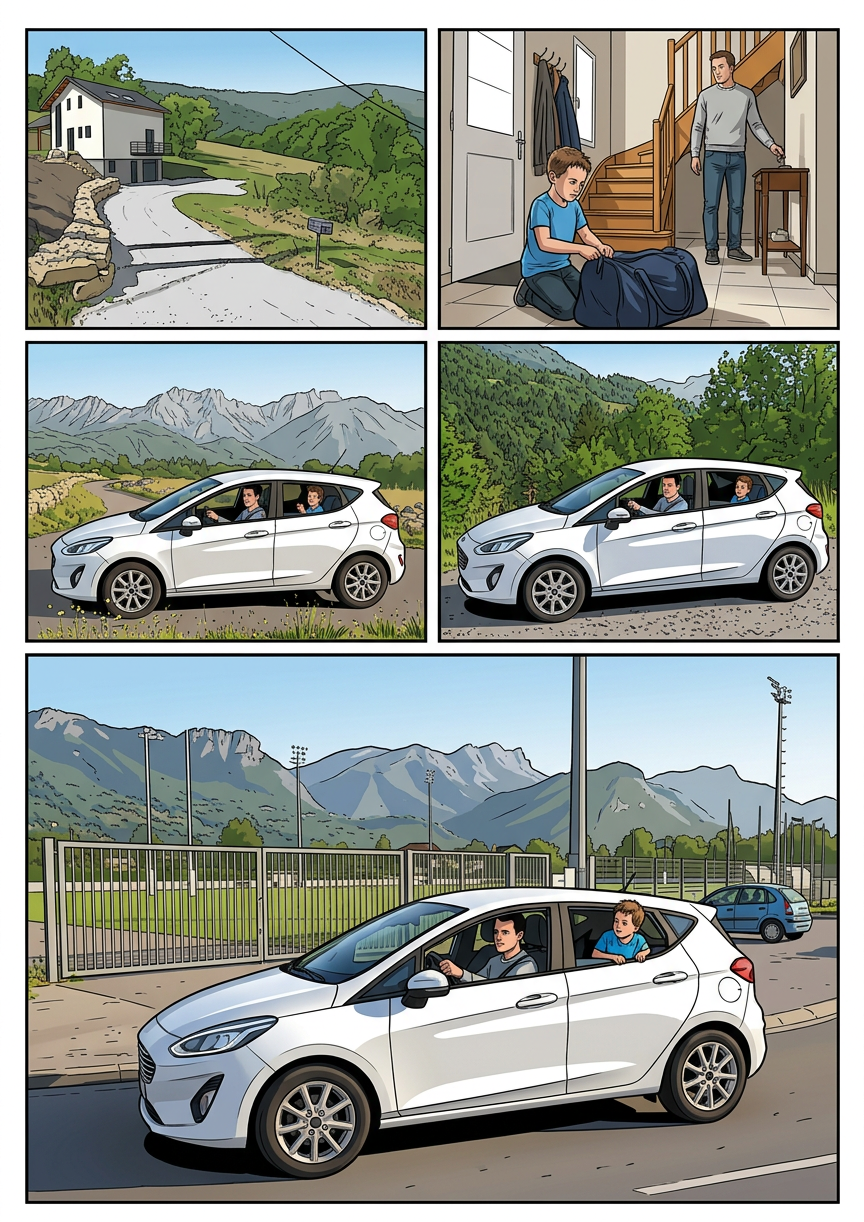
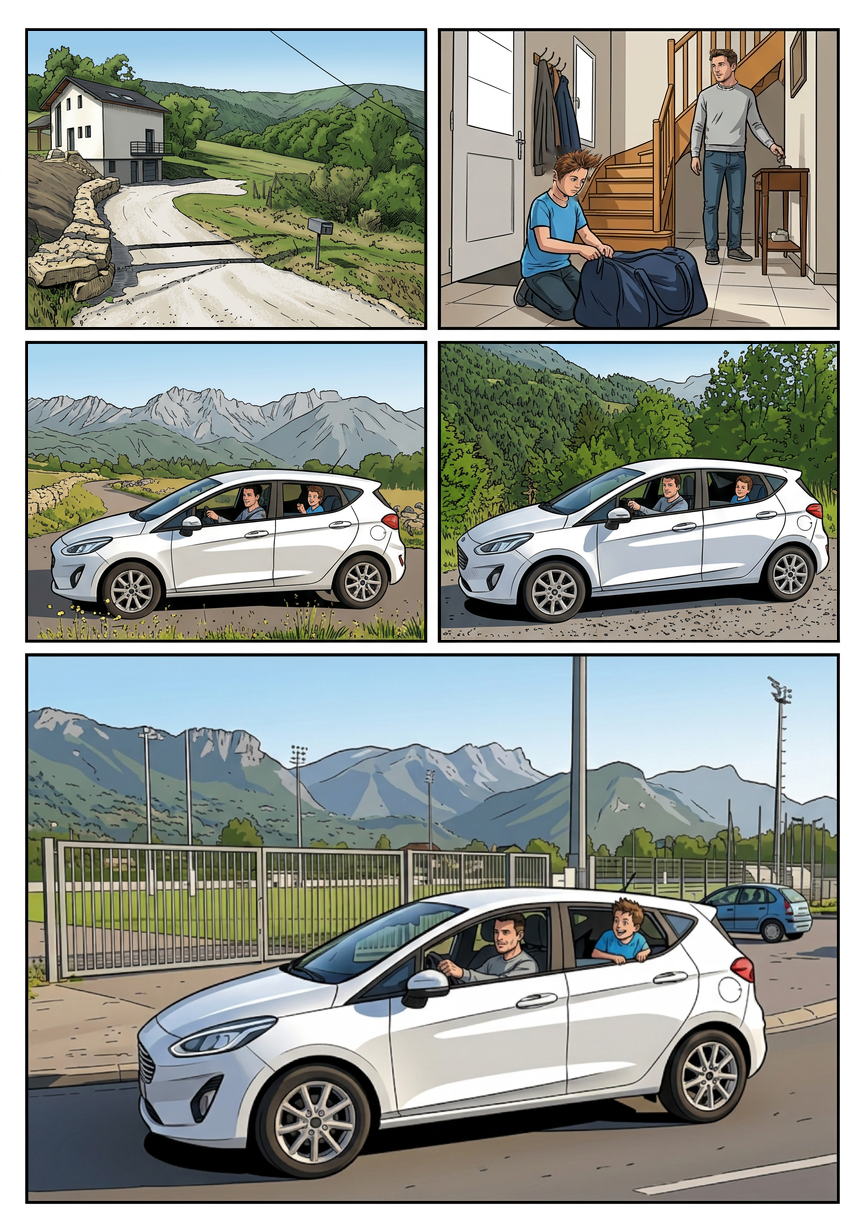
Revoir les cinq vignettes de la planche 2 sur la référence couverture

diff --git a/Planches-dessin/validation/REVUE-COUVERTURE.md b/Planches-dessin/validation/REVUE-COUVERTURE.md
@@ -21,12 +21,12 @@ Les huit recadrages exacts sont dans `revue-couverture/<Prénom>-couverture.png`
 |---|---:|
 | Planches vues en ensemble | 30 |
 | Vignettes réellement inventoriées | 153 |
-| Premières reprises intégrées, encore à relire | 8 |
+| Premières reprises intégrées, encore à relire | 13 |
 | Corrections seulement partielles, à poursuivre | 2 |
-| Autres vignettes restant à contrôler individuellement | 143 |
+| Autres vignettes restant à contrôler individuellement | 138 |
 | Validations définitives de style et ressemblance | **0** |
 
-Les 10 interventions ne signifient donc pas 10 vignettes définitivement conformes. Le reste de la revue demandée n’est pas terminé. Le manifeste `REVUE-COUVERTURE.json` conserve une entrée et un état explicite pour chacune des 153 vignettes.
+Les 15 interventions ne signifient donc pas 15 vignettes définitivement conformes. Le reste de la revue demandée n’est pas terminé. Le manifeste `REVUE-COUVERTURE.json` conserve une entrée et un état explicite pour chacune des 153 vignettes.
 
 ## Première livraison : 26/3 et 26/6
 
@@ -52,6 +52,22 @@ Preuve : `revue-couverture/PREMIERES-CORRECTIONS-26.jpg`. Livraison précédente
 
 Les candidats redessinés ont été relus, puis les montages intégrés ont été examinés en comparatif et en contexte de page. Ce contrôle de première passe n’équivaut pas à une validation définitive de tous les raccords, tenues, proportions et expressions.
 
+## Troisième livraison : les cinq vignettes de la planche 2
+
+Les cinq cases ont été examinées avec leur scénario et leurs recadrages réalistes. La couverture reste l’autorité de dessin et de ressemblance ; les vêtements **civils** de cette scène sont conservés, pas remplacés par les tenues de rugby de la couverture.
+
+- **02/1, sans personnage :** reprise du modelé/encrage de la maison, de la route, du mur et de la végétation, en conservant la composition du paysage savoyard.
+- **02/2 :** reprises locales des têtes : pics châtains et visage de Léon regardant son sac, cheveux bruns et légère barbe de Flavien tourné vers l’étage. Le candidat complet recadrait trop le sac et gardait la coupe trop courte de Léon : rejeté. Les nouveaux portraits ont été détourés, redimensionnés uniformément et raccordés au dessin original. Une première intégration laissait une partie de l’ancienne joue de Léon visible : elle a été rejetée, puis les anciennes silhouettes ont été retirées localement avant la nouvelle intégration. Corps, mains, clés, sac complet et décor hors masque sont conservés.
+- **02/3 :** voiture dans la vallée, Flavien conducteur et Léon qui gesticule à l’arrière ; rendu des occupants et du paysage repris.
+- **02/4 :** même voiture en lisière de forêt, mêmes occupants et vêtements ; visages et décor repris.
+- **02/5 :** arrivée au stade ; visage brun/légèrement barbu de Flavien et cheveux châtains en pics de Léon repris, présence des grilles, projecteurs, montagnes et voiture bleue conservée.
+
+**Réserve de scénario explicite :** les cases 02/3 et 02/4 sont des vues extérieures dans les planches réalistes et dessinées existantes, tandis que le scénario décrit l’intérieur de la voiture. Leur cadrage extérieur n’a pas été remplacé. En 02/4, les bras croisés ne sont pas vérifiables ; ce point et les expressions à très petite échelle restent ouverts pour la relecture, pas déclarés conformes sur la foi du prompt.
+
+Comparatif et cinq masques : `revue-couverture/lot-c/02-AVANT-APRES.jpg`. Contrôle après intégration du portrait corrigé et de la page entière ; aucune de ces cinq premières reprises n’est une validation définitive de ressemblance/style.
+
+En parallèle, **04/5** a été réexaminée : les identités au scénario sont bien **Ayden, Lyssandro, Nolann**, et non Milo au centre. Un nouvel essai avec les trois références nominatives de couverture a été écarté pour amélioration insuffisante du style et des ressemblances. Cette case reste en correction partielle, sans nouvelle modification livrée.
+
 ## Contrôles techniques et audits historiques
 
 `outils/retouche/verifier_revue_couverture.py` compare les 31 PNG au début de la revue : couverture inchangée, dimensions, empreintes, absence de modification des fichiers non concernés et invariance des pixels hors masques. Il contrôle également la cohérence des états et du bilan. **Il ne mesure pas la ressemblance ou la qualité du dessin.**
@@ -60,7 +76,7 @@ Les vérificateurs des audits 13–22, comme ceux de 23–30, s’appliquent dé
 
 ## Suite obligatoire
 
-Contrôler individuellement les **143 autres vignettes**, terminer **04/5 et 14/2**, puis relire les premières reprises. Vérifier systématiquement chaque occurrence de Nolann et des sept autres personnages, ainsi que décors et encrage : la revue ne peut pas se limiter aux couleurs de peau/cheveux.
+Contrôler individuellement les **138 autres vignettes**, terminer **04/5 et 14/2**, puis relire les premières reprises. Vérifier systématiquement chaque occurrence de Nolann et des sept autres personnages, ainsi que décors et encrage : la revue ne peut pas se limiter aux couleurs de peau/cheveux.
 
 Procédure : identification au scénario → comparaison aux personnages de couverture → comparaison à la planche réaliste → correction locale → relecture en contexte de page. Les raccords cou/cheveux/mains et les tenues restent à contrôler. Aucun candidat simplement généré n’est automatiquement validé.
 

diff --git a/Planches-dessin/SUIVI-STYLE.md b/Planches-dessin/SUIVI-STYLE.md
@@ -2,7 +2,7 @@
 
 **La couverture `00-couverture-marvel.png` est désormais la seule référence de style et d’identité.** La décision utilisateur remplace la priorité V2 décrite dans l’historique ci-dessous. La couverture reste inchangée.
 
-Suivi actuel : [`validation/REVUE-COUVERTURE.md`](validation/REVUE-COUVERTURE.md) et son manifeste JSON : 153 vignettes inventoriées, 8 premières reprises, 2 corrections partielles, 143 autres contrôles individuels à faire, aucune validation définitive. Les anciennes approbations ne valent pas conformité au nouveau référentiel.
+Suivi actuel : [`validation/REVUE-COUVERTURE.md`](validation/REVUE-COUVERTURE.md) et son manifeste JSON : 153 vignettes inventoriées, 13 premières reprises, 2 corrections partielles, 138 autres contrôles individuels à faire, aucune validation définitive. Les anciennes approbations ne valent pas conformité au nouveau référentiel.
 
 ---
 
